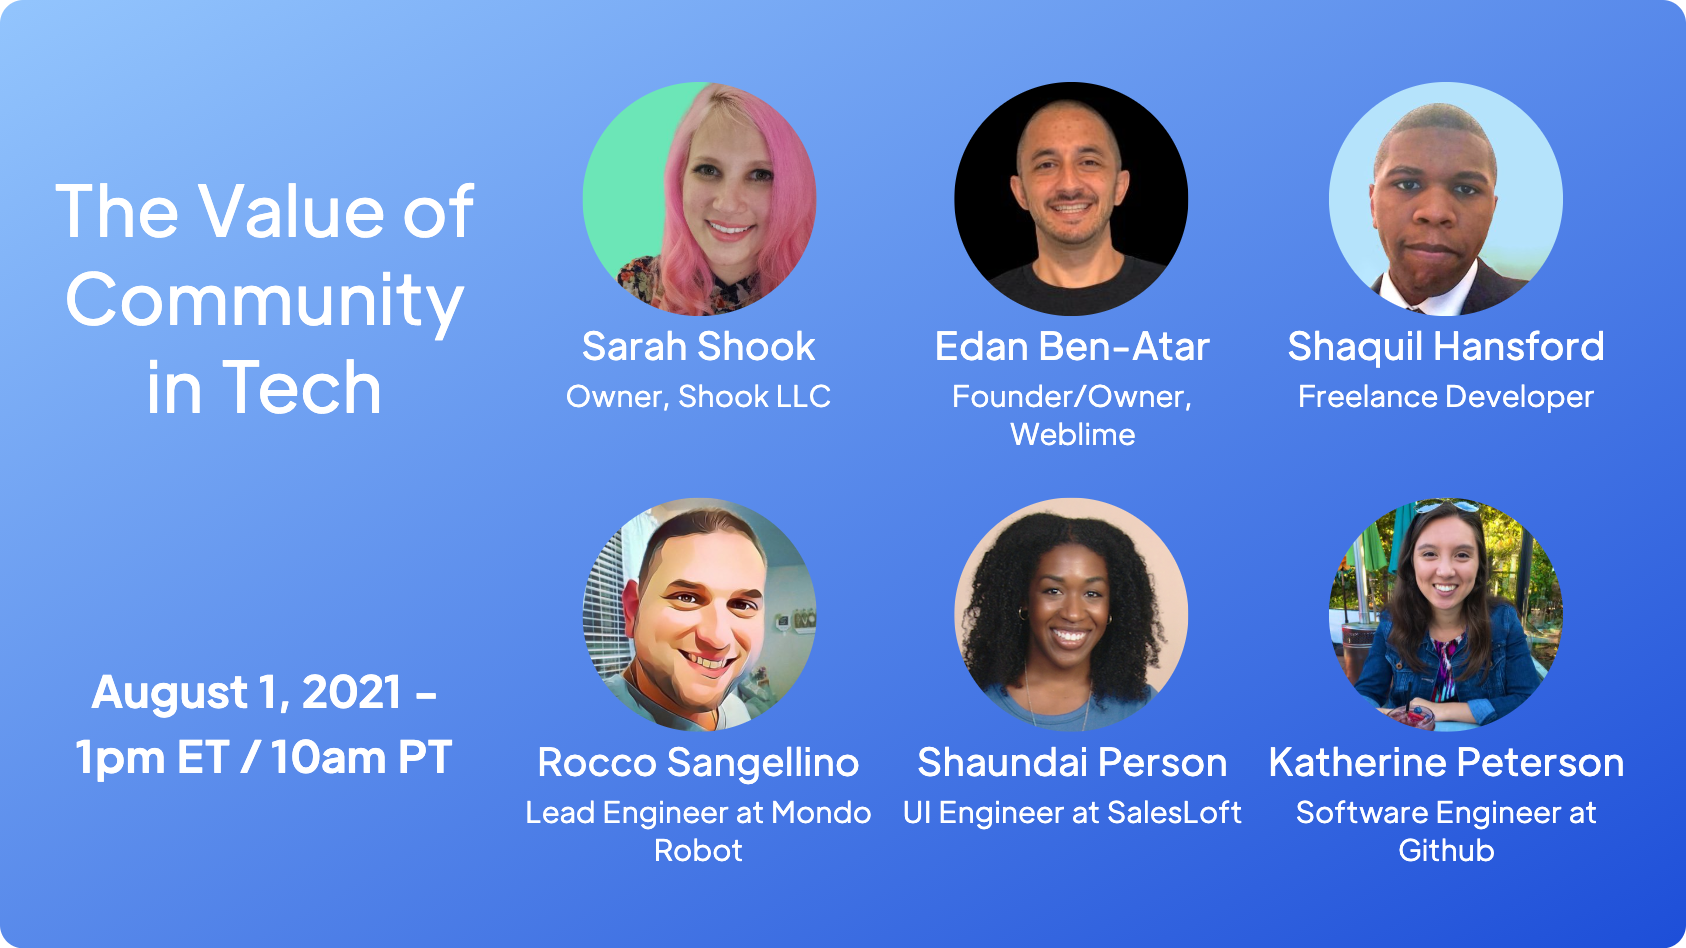
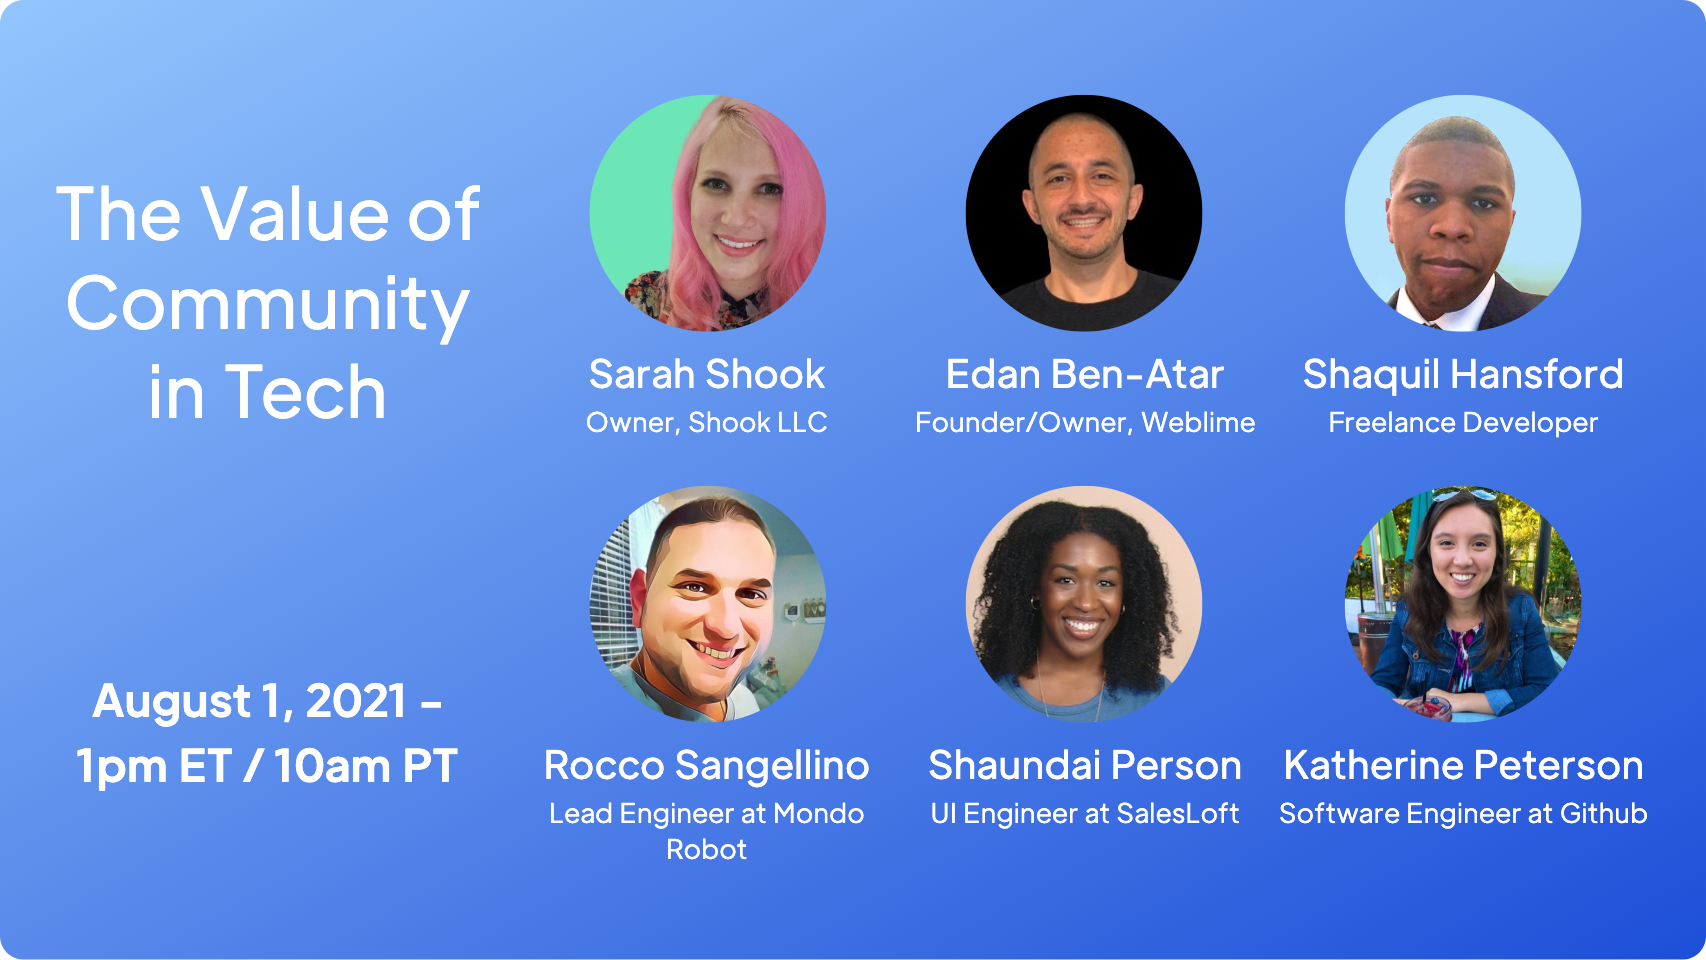
minor adjustments

diff --git a/pages/index.js b/pages/index.js
@@ -1,165 +1,7 @@
 import Head from 'next/head'
 import { ArrowRightIcon } from '@heroicons/react/solid'
 
-const speakers = [
-  {
-    username: 'NickOelsner',
-    profile_image_url:
-      'https://pbs.twimg.com/profile_images/1364044816649121796/uLmGPnwy_normal.jpg',
-    id: '1364044326334918656',
-    name: 'Nick Oelsner',
-    title: 'Frontend Developer/ Freelancer',
-  },
-  {
-    profile_image_url:
-      'https://pbs.twimg.com/profile_images/1354163904213966848/4dOl8di8_normal.jpg',
-    id: '1354159191296864256',
-    name: 'Katherine Peterson',
-    username: 'katherinecodes',
-    title: 'Software Engineer at Github',
-  },
-  {
-    profile_image_url:
-      'https://pbs.twimg.com/profile_images/1421305898379608065/0iXfDSGP_normal.jpg',
-    username: 'tanoaksam',
-    id: '1311650703052476416',
-    name: 'Sam Sycamore',
-    title: 'Content & Marketing at Hashnode',
-  },
-  {
-    profile_image_url:
-      'https://pbs.twimg.com/profile_images/1412761083849457664/lsGkrZIQ_normal.jpg',
-    username: 'edanbenatar',
-    id: '1262720796511940609',
-    name: 'Edan Ben-Atar',
-    title: 'Founder of Weblime',
-  },
-  {
-    name: 'Rocco Sangellino',
-    username: 'RoccoSangellino',
-    id: '1337808128176340992',
-    profile_image_url:
-      'https://pbs.twimg.com/profile_images/1388602894258114561/LYpjcAVx_normal.jpg',
-    title: 'Software Lead at Mondo Robot',
-  },
-  {
-    profile_image_url:
-      'https://pbs.twimg.com/profile_images/1400216053280559104/WvAf6G1M_normal.jpg',
-    username: 'shookcodes',
-    id: '1212524335174311936',
-    name: 'Sarah Shook',
-    title: 'Freelance Developer',
-  },
-]
-
-const speakers1A = [
-  {
-    username: 'NickOelsner',
-    profile_image_url:
-      'https://pbs.twimg.com/profile_images/1364044816649121796/uLmGPnwy_normal.jpg',
-    id: '1364044326334918656',
-    name: 'Nick Oelsner',
-    title: 'Frontend Developer/ Freelancer',
-  },
-  {
-    profile_image_url:
-      'https://pbs.twimg.com/profile_images/1421305898379608065/0iXfDSGP_normal.jpg',
-    username: 'tanoaksam',
-    id: '1311650703052476416',
-    name: 'Sam Sycamore',
-    title: 'Content & Marketing at Hashnode',
-  },
-  {
-    profile_image_url:
-      'https://pbs.twimg.com/profile_images/1412761083849457664/lsGkrZIQ_normal.jpg',
-    username: 'edanbenatar',
-    id: '1262720796511940609',
-    name: 'Edan Ben-Atar',
-    title: 'Founder of Weblime',
-  },
-]
-const speakers1B = [
-  {
-    profile_image_url:
-      'https://pbs.twimg.com/profile_images/1354163904213966848/4dOl8di8_normal.jpg',
-    id: '1354159191296864256',
-    name: 'Katherine Peterson',
-    username: 'katherinecodes',
-    title: 'Software Engineer at Github',
-  },
-  {
-    name: 'Rocco Sangellino',
-    username: 'RoccoSangellino',
-    id: '1337808128176340992',
-    profile_image_url:
-      'https://pbs.twimg.com/profile_images/1388602894258114561/LYpjcAVx_normal.jpg',
-    title: 'Software Lead at Mondo Robot',
-  },
-  {
-    profile_image_url:
-      'https://pbs.twimg.com/profile_images/1400216053280559104/WvAf6G1M_normal.jpg',
-    username: 'shookcodes',
-    id: '1212524335174311936',
-    name: 'Sarah Shook',
-    title: 'Freelance Developer',
-  },
-]
-
-const SpeakerComponent = ({ speaker }) => (
-  <li
-    className="flex flex-col items-center justify-start font-bold text-center w-[33%] max-h-[167px] overflow-hidden"
-    key={speaker.id}
-  >
-    <img
-      className="w-[5rem] h-[5rem] mx-auto rounded-full"
-      src={speaker.profile_image_url.replace(/_normal/g, '')}
-      alt=""
-    />
-    {speaker.name && <h3 className="text-[13px] font-medium w-full">{speaker.name}</h3>}
-    {speaker.title && <h3 className="text-[10px] font-light w-full">{speaker.title}</h3>}
-  </li>
-)
-
-const ImageLayout2 = ({ scale }) => {
-  return (
-    <div
-      className="w-[576px] h-[324px] bg-gradient-to-br from-blue-300 to-blue-700 transform text-white rounded-lg shadow-md"
-      style={{
-        transform: 'scale(' + scale + ')',
-        transformOrigin: '0 0 0',
-      }}
-    >
-      <div className="flex items-center justify-around w-full h-full">
-        <div className="flex flex-col items-center justify-around w-1/3 h-full p-4 pr-2">
-          <h1 className="font-medium leading-none text-center text-[28px]">
-            Building Cool Projects with Cool People
-          </h1>
-          <p className="font-bold text-center text-[16px]">All day every day</p>
-        </div>
-        <ul className="flex flex-wrap justify-center w-2/3 pr-4 gap-y-4 items-around">
-          {speakers.map((speaker) => (
-            <SpeakerComponent key={speaker.id} speaker={speaker} />
-          ))}
-        </ul>
-      </div>
-    </div>
-  )
-}
-
 export default function Home() {
-  // const [scale, setScale] = useState(1)
-  // const [refAquired, setRefAquired] = useState(false)
-
-  // const imageContainer = useRef()
-
-  // useEffect(() => {
-  //   setRefAquired(true)
-  // }, [])
-
-  // useEffect(() => {
-  //   setScale(imageContainer.current.offsetWidth / 576)
-  // }, [refAquired])
-
   return (
     <div>
       <Head>
@@ -186,7 +28,7 @@ export default function Home() {
       </header>
       <main>
         <section className="text-gray-800 body-font lg:pt-16">
-          <div className="container px-5 pt-32 mx-auto lg:px-4 lg:py-4">
+          <div className="container px-5 pt-6 mx-auto md:pt-32 lg:px-4 lg:py-4">
             <div className="flex flex-col w-full mb-10 text-left lg:text-center">
               <h1 className="mb-6 text-4xl font-black leading-tight text-gray-800 md:leading-tight lg:leading-tight md:text-5xl lg:text-7xl">
                 Images for Twitter Spaces
@@ -194,14 +36,16 @@ export default function Home() {
                 In 5 minutes.
               </h1>
               <p className="mx-auto text-lg leading-snug text-gray-700 lg:w-1/2">
-                Generate an image to promote a Twitter Space. Enter the information about the Space
-                and the speakers' Twitter handles and use the generated image to Tweet about the
-                event.
+                Generate an image to promote a Twitter Space. Enter information about the Space and
+                the speakers' Twitter handles and use the generated image to Tweet about the event.
               </p>
             </div>
-            <div className="flex flex-col mb-10 justify-left lg:justify-center md:flex-row">
+            <div className="flex flex-col justify-center mb-10 sm:flex-row">
               <div className="inline-flex items-center justify-center text-lg font-normal text-white border border-transparent rounded-md shadow-sm bg-primary hover:bg-primary-hover focus:outline-none focus:ring-2 focus:ring-offset-2 focus:ring-primary ">
-                <a href="/image-creator" className="flex items-center w-full h-full px-6 py-3">
+                <a
+                  href="/image-creator"
+                  className="flex items-center justify-center w-full h-full px-6 py-3"
+                >
                   <span>Let's do it!</span>
                   <ArrowRightIcon className="w-5 h-5 ml-2" />
                 </a>
@@ -210,18 +54,13 @@ export default function Home() {
           </div>
         </section>
         <section>
-          <div className="container flex flex-col items-center justify-center px-10 py-10 mx-auto mb-10 rounded-lg lg:px-40 lg:-mt-28">
+          <div className="container flex flex-col items-center justify-center px-5 mx-auto mb-10 rounded-lg md:px-10 lg:px-40 ">
             <img
               id="hero-image"
               className="object-cover object-center w-full rounded-xl"
               alt="hero"
               src="/example.png"
             />
-            {/* <div ref={imageContainer} className="w-full max-w-4xl">
-              <div style={{ marginBottom: `${scale * 324 - 324}px` }}>
-                <ImageLayout2 scale={scale} />
-              </div>
-            </div> */}
           </div>
         </section>
       </main>

diff --git a/components/ImageLayout2.js b/components/ImageLayout2.js
@@ -39,14 +39,14 @@ const layout2Styles = [
     ul: 'flex flex-wrap justify-center w-2/3 gap-y-4 pr-4 items-around',
     li: 'flex flex-col items-center justify-start font-bold text-center w-[33%] max-h-[167px] overflow-hidden',
     name: 'text-[13px]',
-    title: 'text-[10px]',
+    title: 'text-[9px]',
   },
   {
     titleContainer: 'flex flex-col justify-around w-[30%] h-full p-4 pr-2 items-center',
     ul: 'flex flex-wrap justify-center w-[70%] gap-y-4 pr-4 items-around',
     li: 'flex flex-col items-center justify-start font-bold text-center w-[33%] max-h-[167px] overflow-hidden',
     name: 'text-[13px]',
-    title: 'text-[10px]',
+    title: 'text-[9px]',
   },
   {
     titleContainer: 'flex flex-col justify-around w-1/3 h-full p-4 pr-2 items-center',
@@ -102,7 +102,9 @@ export const ImageLayout2 = ({
                 alt=""
               />
               {speaker.name && (
-                <h3 className={`${layout2Styles[idx].name} font-medium w-full mb-px ${textColor}`}>
+                <h3
+                  className={`${layout2Styles[idx].name} font-medium w-full mb-px mt-1 ${textColor}`}
+                >
                   {speaker.name}
                 </h3>
               )}
